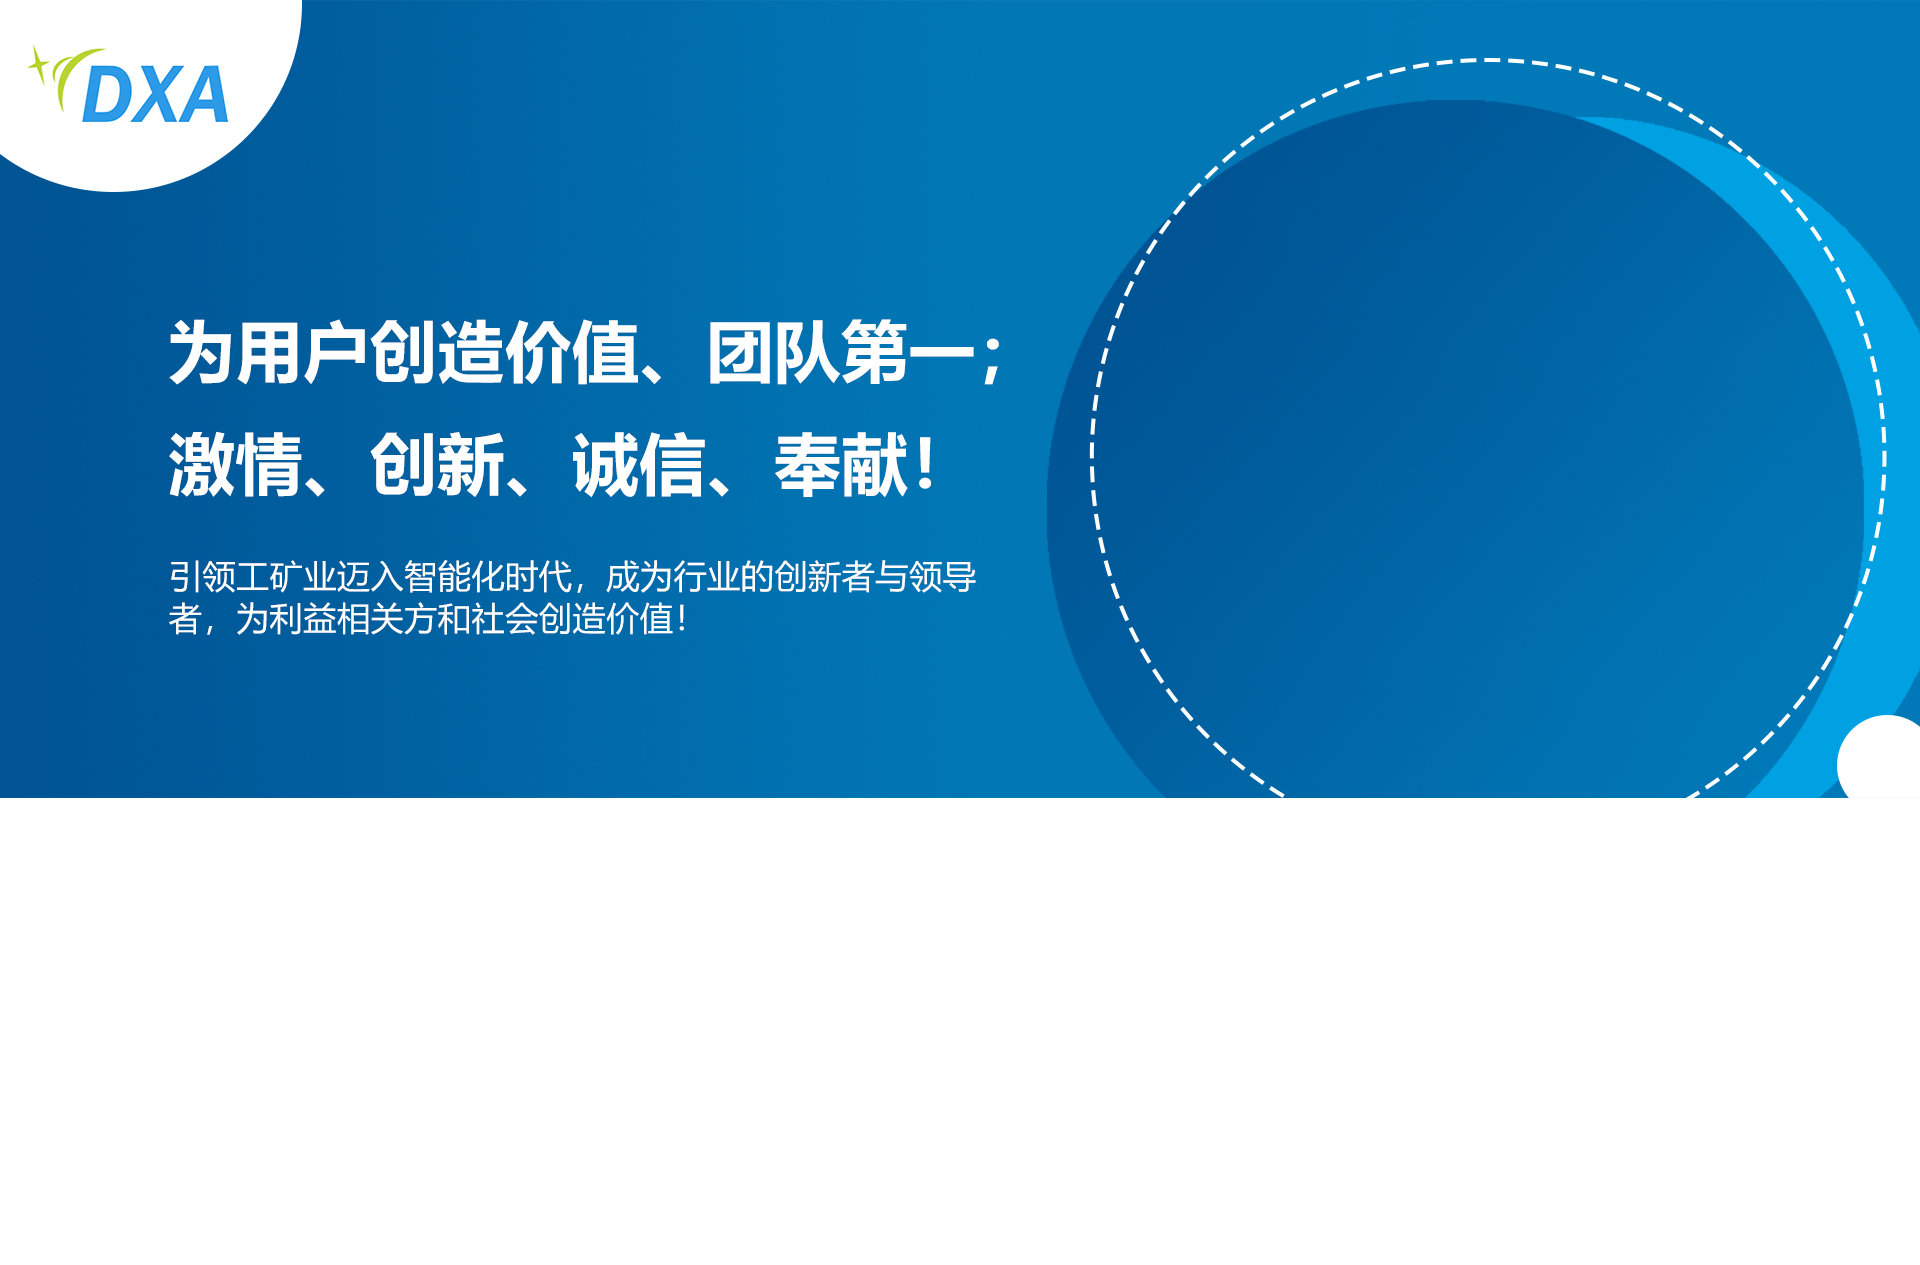
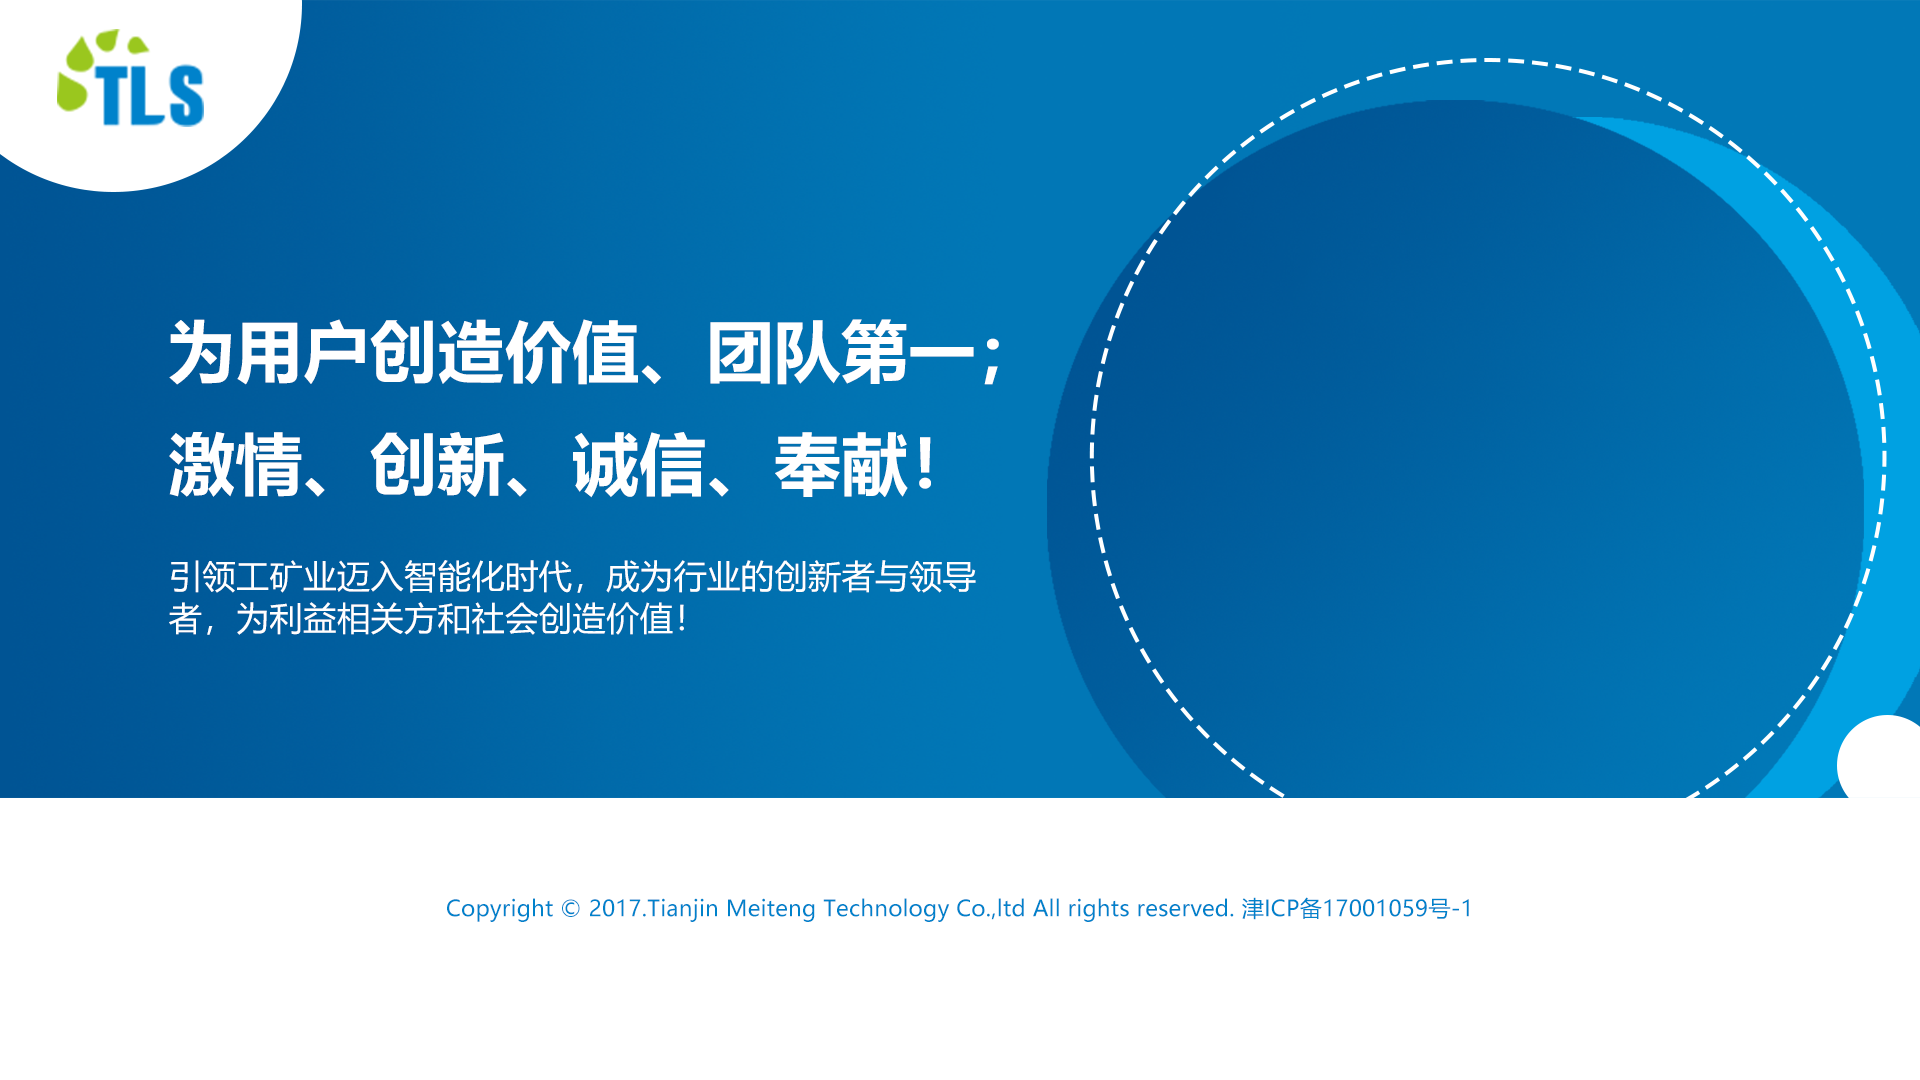
提交人 吴伯莹 login页

Changed region(s): [[0.0, 0.0306, 1.0, 0.7639], [0.0, 0.0306, 0.1562, 0.1833], [0.2188, 0.825, 0.75, 0.8556]]

diff --git a/src/lib/mt-common/mtLogin/MtLogin.vue b/src/lib/mt-common/mtLogin/MtLogin.vue
@@ -2,10 +2,9 @@
   <div id="MtLogin_component" class="login">
     <div class="content">
       <div class="login-con">
-        <p>密码登录</p>
-        <span class="hint">{{hint}}</span>
-        <a-form class="filter_box" :form="formLogin">
-          <a-form-item>
+        <p>欢迎登录</p>
+        <a-form  class="filter_box" :form="formLogin">
+          <a-form-item :label-col="labelCol" :wrapper-col="wrapperCol" label="账号">
             <a-input
               placeholder="请输入用户名"
               v-decorator="['userId', { rules: [{ required: true, message: '不能为空' }] }]"
@@ -13,7 +12,7 @@
               <img class="img-ipt" slot="prefix" src="./user.png" alt />
             </a-input>
           </a-form-item>
-          <a-form-item>
+          <a-form-item :label-col="labelCol" :wrapper-col="wrapperCol" label="密码">
             <a-input
               type="password"
               placeholder="请输入密码"
@@ -28,9 +27,6 @@
         </a-form>
       </div>
     </div>
-    <footer>
-      <p>Copyright©2017.Tianjin Meiteng Technology Co.,ltd All rights reserved. 津ICP备17001059号-1</p>
-    </footer>
   </div>
 </template>
 <script>
@@ -42,15 +38,33 @@ export default {
     return {
       formLogin: this.$form.createForm(this), // 新建form
       form: {},
-      hint: ''
+      labelCol: {
+        xs: { span: 24 },
+        sm: { span: 5 }
+      },
+      wrapperCol: {
+        xs: { span: 24 },
+        sm: { span: 19 }
+      },
     }
   },
   methods: {
     login (e) {
       e.preventDefault()
+
       let this_ = this
       this.formLogin.validateFields((err, values) => {
         if (!err) {
+          // this.formLogin.setFields({
+          //   userId: {
+          //     value: values.userId,
+          //     errors: ['error']
+          //   },
+          //   passWord: {
+          //     value: values.userId,
+          //     errors: ['error']
+          //   }
+          // })
           for (let value in values) {
             this.form[value] = values[value]
           }
@@ -60,7 +74,6 @@ export default {
             data: this.form
           })
             .then(res => {
-              this.hint = ''
               this.$emit('loginToNext', res)
             })
             .catch(error => {
@@ -87,16 +100,15 @@ export default {
   background-size: cover;
   .content {
     width: 100%;
-    height: calc(100% - 80px);
+    height: 100%;
     overflow: hidden;
     .login-con {
-      width: 400px;
-      height: 380px;
+      width: 28%;
       background-color: white;
       float: right;
       margin-right: 8%;
       margin-top: 12%;
-      padding: 30px 40px 40px;
+      padding: 30px 40px;
 
       -webkit-box-sizing: border-box;
       -moz-box-sizing: border-box;
@@ -116,6 +128,7 @@ export default {
         color: red;
       }
       .login-btn {
+        margin-top: 20px;
         width: 100%;
         font-size: 20px;
         text-align: center;
@@ -123,24 +136,9 @@ export default {
         text-indent: 15px;
         background-color: #2c9ae6;
       }
-      #userId,
-      #passWord {
-        padding-right: 50px !important;
-      }
       .img-ipt {
         width: 16px;
       }
-    }
-  }
-  footer {
-    width: 100%;
-    height: 80px;
-    display: flex;
-    align-items: center;
-    justify-content: center;
-    p {
-      color: #2c9ae6;
-      font-size: 20px;
     }
   }
 }

diff --git a/src/lib/mt-common/mtConsumer/MtConsumer.vue b/src/lib/mt-common/mtConsumer/MtConsumer.vue
@@ -89,7 +89,7 @@
             />
           </a-form-item>
           <a-form-item :label-col="labelCol" :wrapper-col="wrapperCol" label="用户组:" hasFeedback>
-            <a-select v-decorator="['roleTypeId', { rules: [{ required: true, message: '请选择用户组' }] }]">
+            <a-select  v-decorator="['roleTypeId', { rules: [{ required: true, message: '请选择用户组' }] }]">
               <a-select-option :value="select.roleTypeId" :key="index" v-for="(select,index) in selects">{{select.roleTypeName}}</a-select-option>
             </a-select>
           </a-form-item>
@@ -306,7 +306,8 @@ export default {
             })
             .catch((error) => {
               this.$error({
-                title: '修改信息错误',
+                title: '错误信息',
+                okText: '确定',
                 content: error.msg
               })
             })
@@ -335,7 +336,7 @@ export default {
             this.formEdit.setFieldsValue({// 数据
               'zhixin': res.data.zhixin,
               'userName': res.data.customerName,
-              'roleTypeId': res.data.roleTypeId,
+              'roleTypeId': Number(res.data.roleTypeId),
               'phone': res.data.phone,
               'dingDing': res.data.dingDing,
               'mail': res.data.mail,
